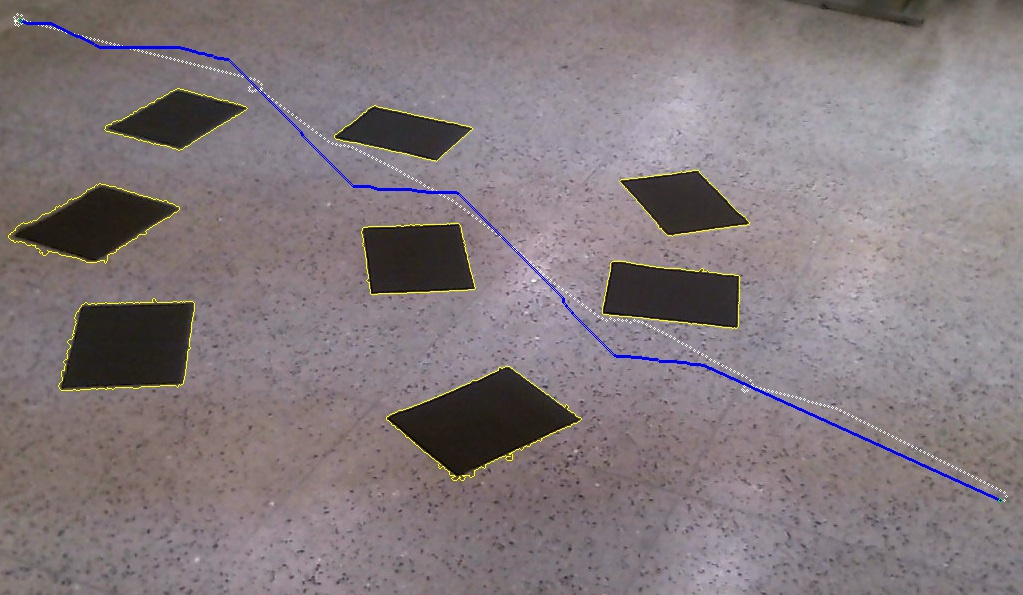
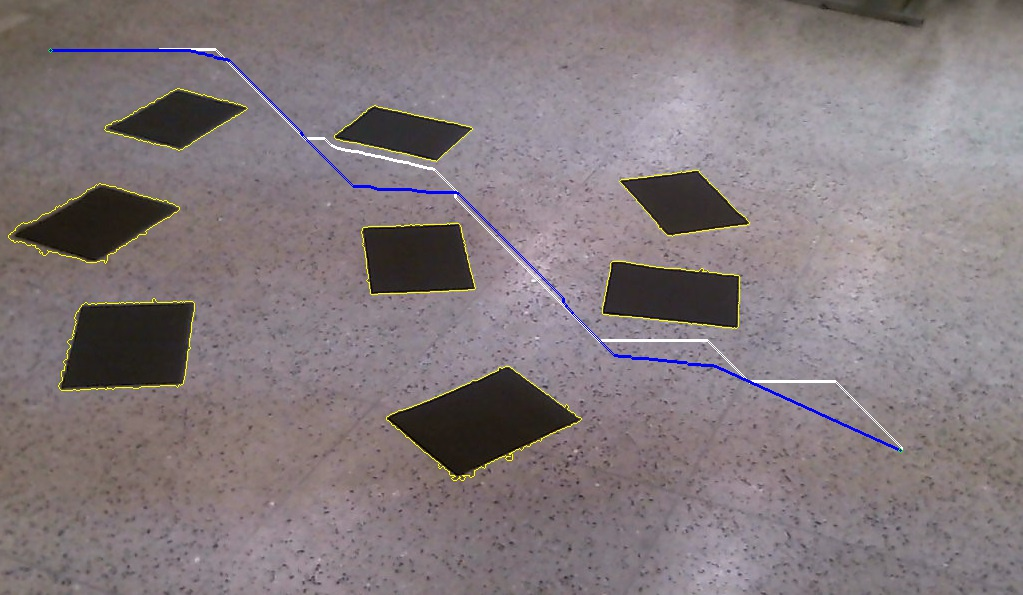
Hybrid Files updated :)

diff --git a/A-star-potential-field-hybrid-type-1_1.py b/A-star-potential-field-hybrid-type-1_1.py
@@ -445,87 +445,87 @@ def final_path(sol, arr):
 
 def main():
     counter = 1
-    #for im in images:
+    for im in images:
 
-    img = cv2.imread('1.jpg')
+        img = cv2.imread(im)
 
-    cimg = cv2.cvtColor(img,cv2.COLOR_BGR2GRAY)
-    img2 = cv2.medianBlur(cimg,13)
+        cimg = cv2.cvtColor(img,cv2.COLOR_BGR2GRAY)
+        img2 = cv2.medianBlur(cimg,13)
 
-    ret,thresh1 = cv2.threshold(cimg,100,120,cv2.THRESH_BINARY)
-    t2 = copy.copy(thresh1)
+        ret,thresh1 = cv2.threshold(cimg,100,120,cv2.THRESH_BINARY)
+        t2 = copy.copy(thresh1)
 
-    x, y  = thresh1.shape
-    arr = np.zeros((x, y, 3), np.uint8)
-    arr1 = np.zeros((x, y, 3), np.uint8)
-    final_contours= []
-    image, contours, hierarchy = cv2.findContours(t2,cv2.RETR_TREE,cv2.CHAIN_APPROX_SIMPLE)
-    for i in range(len(contours)):
-        cnt = contours[i]
-        if cv2.contourArea(cnt) > 1000 and cv2.contourArea(cnt) < 15000 :
-            cv2.drawContours(img, [cnt],-1, [0, 255, 255])
-            cv2.fillConvexPoly(arr, cnt, [255, 255, 255])
-            cv2.fillConvexPoly(arr1, cnt, [255, 255, 255])
-            final_contours.append(cnt)
-    cmax = 50
-    start = time.clock()
-    #min_cost = fill_clearance(arr,cmax, final_contours)
-    print 'time: ',  time.clock()-start
-    '''
-    for i in xrange(x):
-        for j in xrange(y):
-            if min_cost[i][j] == 100000:
-                min_cost[i][j] = 0;
-    '''
-    '''
-    for i in xrange(x):
-        for j in xrange(y):
-            pix_val = int(5*min_cost[i][j])
-            if(min_cost[i][j] > 10000):
-                pix_val = 255
-            arr[i, j] = (pix_val, pix_val, pix_val)
-    for cnt in final_contours:
-        cv2.fillConvexPoly(arr, cnt, [0, 0, 0])
-    '''
-    '''
-    Code from A-star.py
-    '''
-    sx = 20 # raw_input("Enter source and destination Coordinates")
-    sy = 20  # raw_input()
-    dx = 500   # raw_input()
-    dy = 1000  # raw_input()
+        x, y  = thresh1.shape
+        arr = np.zeros((x, y, 3), np.uint8)
+        arr1 = np.zeros((x, y, 3), np.uint8)
+        final_contours= []
+        image, contours, hierarchy = cv2.findContours(t2,cv2.RETR_TREE,cv2.CHAIN_APPROX_SIMPLE)
+        for i in range(len(contours)):
+            cnt = contours[i]
+            if cv2.contourArea(cnt) > 1000 and cv2.contourArea(cnt) < 15000 :
+                cv2.drawContours(img, [cnt],-1, [0, 255, 255])
+                cv2.fillConvexPoly(arr, cnt, [255, 255, 255])
+                cv2.fillConvexPoly(arr1, cnt, [255, 255, 255])
+                final_contours.append(cnt)
+        cmax = 50
+        start = time.clock()
+        min_cost = fill_clearance(arr,cmax, final_contours)
+        print 'time: ',  time.clock()-start
+        '''
+        for i in xrange(x):
+            for j in xrange(y):
+                if min_cost[i][j] == 100000:
+                    min_cost[i][j] = 0;
+        '''
 
-    #sol = bfs(arr, sx, sy, dx, dy, final_contours)
-    #print_path_to_file(sol)
+        for i in xrange(x):
+            for j in xrange(y):
+                pix_val = int(5*min_cost[i][j])
+                if(min_cost[i][j] > 10000):
+                    pix_val = 255
+                arr[i, j] = (pix_val, pix_val, pix_val)
+        for cnt in final_contours:
+            cv2.fillConvexPoly(arr, cnt, [0, 0, 0])
 
-    sol = read_path_from_file()
-    print sol
-    solution = final_path(sol, arr1)
-    print solution
+        '''
+        Code from A-star.py
+        '''
+        sx = 50 # raw_input("Enter source and destination Coordinates")
+        sy = 50  # raw_input()
+        dx = 450   # raw_input()
+        dy = 900  # raw_input()
 
-    if len(solution) == 0:
-        print 'No solution from source to destination'
-    else:
-        for i in range(len(solution)):
-            start = (solution[i][1], solution[i][0])
-            cv2.circle(arr,start, 1, [255, 255, 255])
-            cv2.circle(img, start, 1, [255, 255, 255])
+        sol = bfs(arr, sx, sy, dx, dy, final_contours)
+        #print_path_to_file(sol)
 
-        for i in range(len(sol)):
-            start = (sol[i][1], sol[i][0])
-            cv2.circle(arr,start, 1, [255, 0, 0])
-            cv2.circle(img, start, 1, [255, 0, 0])
+        #sol = read_path_from_file()
+        #print sol
+        solution = final_path(sol, arr1)
+        #print solution
 
-    cv2.circle(arr, (sy, sx), 2, [0, 255, 0])
-    cv2.circle(arr, (dy, dx), 2, [0, 255, 0])
-    cv2.circle(img, (sy, sx), 2, [0, 255, 0])
-    cv2.circle(img, (dy, dx), 2, [0, 255, 0])
-    output = "output1/"+`counter`
-    output += ".jpg"
-    cv2.imwrite(output, img)
-    counter += 1
-    cv2.imshow('image', img)
-    cv2.imshow('arr', arr)
-    cv2.waitKey(0)
-    cv2.destroyAllWindows()
+        if len(solution) == 0:
+            print 'No solution from source to destination'
+        else:
+            for i in range(len(solution)):
+                start = (solution[i][1], solution[i][0])
+                cv2.circle(arr,start, 1, [255, 255, 255])
+                cv2.circle(img, start, 1, [255, 255, 255])
+
+            for i in range(len(sol)):
+                start = (sol[i][1], sol[i][0])
+                cv2.circle(arr,start, 1, [255, 0, 0])
+                cv2.circle(img, start, 1, [255, 0, 0])
+
+        cv2.circle(arr, (sy, sx), 2, [0, 255, 0])
+        cv2.circle(arr, (dy, dx), 2, [0, 255, 0])
+        cv2.circle(img, (sy, sx), 2, [0, 255, 0])
+        cv2.circle(img, (dy, dx), 2, [0, 255, 0])
+        output = "output1/"+`counter`
+        output += ".jpg"
+        cv2.imwrite(output, img)
+        counter += 1
+        cv2.imshow('image', img)
+        cv2.imshow('arr', arr)
+        cv2.waitKey(0)
+        cv2.destroyAllWindows()
 main()
